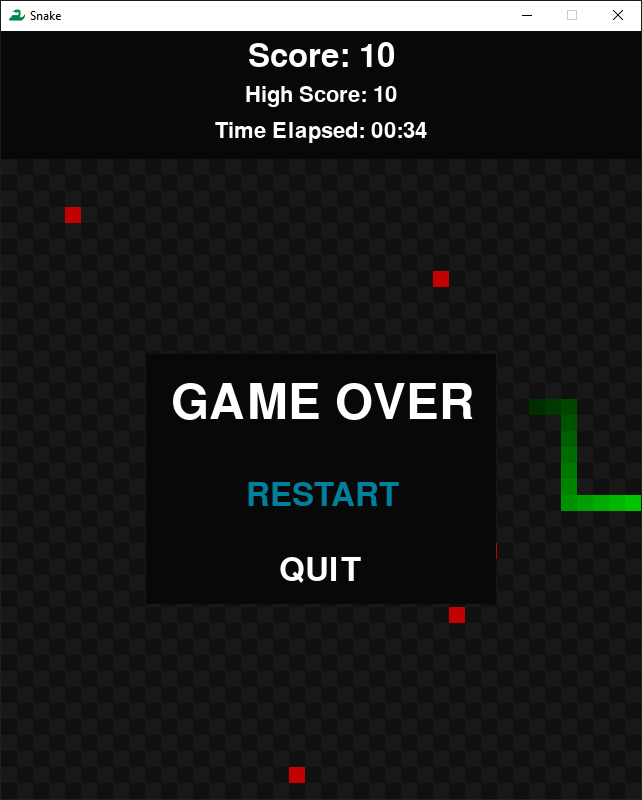
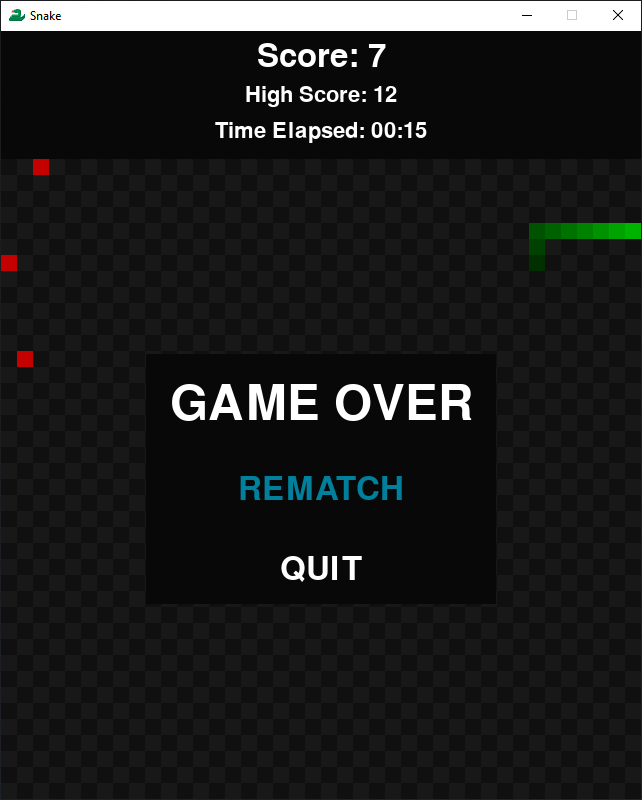
snake updates

diff --git a/snake/main.py b/snake/main.py
@@ -9,17 +9,16 @@ import pygame
 def createBlankWindow():
     blankWindow = pygame.Surface((windowWidth, windowHeight))
     blankWindow.fill(windowBgDark)
-    startForX = squareSize
 
+    drawLightRect = False
     for y in range(infoHeight, windowHeight, squareSize):
-        if (y-infoHeight) % (squareSize * 2):
-            startForX = squareSize
-        else:
-            startForX = 0
-        for x in range(startForX, windowWidth, squareSize*2):
-            pygame.draw.rect(blankWindow, windowBgLight, (x, y, squareSize, squareSize))
+        for x in range(0, windowWidth, squareSize):
+            if drawLightRect:
+                pygame.draw.rect(blankWindow, windowBgLight, (x, y, squareSize, squareSize))
+            drawLightRect = not drawLightRect
+        drawLightRect = not drawLightRect
 
-    pygame.draw.rect(blankWindow, infoBg, (0, 0, windowWidth, infoHeight))
+    pygame.draw.rect(blankWindow, menuWindowBg, (0, 0, windowWidth, infoHeight))
 
     return blankWindow
 
@@ -34,7 +33,7 @@ def createMenus(txt, txtPosX, txtPosYTitle, txtPosYBody, txtPosYBodyDifference, 
 
     for i in range(selectionStart, selectionEnd+1):
         temp = pygame.Surface((windowWidth, windowHeight))
-        temp.fill(windowBgDark)
+        temp.fill(menuWindowBg)
         for j in range(len(txt)):
             if j == i:
                 if j == 0:
@@ -54,18 +53,20 @@ def createMenus(txt, txtPosX, txtPosYTitle, txtPosYBody, txtPosYBodyDifference, 
 def createInfoMenu():
     fontOne = pygame.font.SysFont(mainFont, 72)
     fontTwo = pygame.font.SysFont(mainFont, 32)
+    fontThree = pygame.font.SysFont(mainFont, 48)
 
     lineOne = "INFORMATION"
     lineTwo = "WASD = SNAKE AND MENU NAVIGATION"
     lineThree = "K = SPEED UP SNAKE"
     lineFour = "ESC = PAUSE/UNPAUSE/GO BACK"
-    lineFive = "R = RESTART WHEN GAMER OVER"
-    lineSix = "Q = QUIT TO MAIN MENU WHEN GAME OVER"
-    lineSeven = "CTRL + Q = QUIT PROGRAM"
-    lineEight = "BACK TO MAIN MENU"
+    lineFive = "H = HIDE GAME OVER MESSAGE"
+    lineSix = "R = RESTART WHEN GAMER OVER"
+    lineSeven = "Q = QUIT TO MAIN MENU"
+    lineEight = "CTRL + Q = QUIT PROGRAM"
+    lineNine = "BACK TO MAIN MENU"
 
     infoMenu = pygame.Surface((windowWidth, windowHeight))
-    infoMenu.fill(windowBgDark)
+    infoMenu.fill(menuWindowBg)
     infoMenu.blit(fontOne.render(lineOne, True, textColour), (50, 50))
     infoMenu.blit(fontTwo.render(lineTwo, True, textColour), (50, 150))
     infoMenu.blit(fontTwo.render(lineThree, True, textColour), (50, 200))
@@ -73,30 +74,30 @@ def createInfoMenu():
     infoMenu.blit(fontTwo.render(lineFive, True, textColour), (50, 300))
     infoMenu.blit(fontTwo.render(lineSix, True, textColour), (50, 350))
     infoMenu.blit(fontTwo.render(lineSeven, True, textColour), (50, 400))
-    infoMenu.blit(fontTwo.render(lineEight, True, selectedTextColour), (50, 650))
+    infoMenu.blit(fontTwo.render(lineEight, True, textColour), (50, 450))
+    infoMenu.blit(fontThree.render(lineNine, True, selectedTextColour), (50, 700))
 
     return infoMenu
 
 
 def createGameOverMenu():
-    fontOne = pygame.font.SysFont(mainFont, 72)
-    fontTwo = pygame.font.SysFont(mainFont, 48)
+    gameOverText = pygame.font.SysFont(mainFont, gameOverFontSize).render("GAME OVER", True, textColour)
+    rematchTextSelected = pygame.font.SysFont(mainFont, gameOverOptionsFontSize).render("REMATCH", True, selectedTextColour)
+    rematchText = pygame.font.SysFont(mainFont, gameOverOptionsFontSize).render("REMATCH", True, textColour)
+    quitTextSelected = pygame.font.SysFont(mainFont, gameOverOptionsFontSize).render("QUIT", True, selectedTextColour)
+    quitText = pygame.font.SysFont(mainFont, gameOverOptionsFontSize).render("QUIT", True, textColour)
 
-    lineOne = "GAME OVER"
-    lineTwo = "RESTART"
-    lineThree = "QUIT"
+    one = pygame.Surface((gameOverWidth, gameOverHeight))
+    one.fill(menuWindowBg)
+    one.blit(gameOverText, gameOverText.get_rect(center=(gameOverWidth/2, 50)))
+    one.blit(rematchTextSelected, rematchTextSelected.get_rect(center=(gameOverWidth/2, gameOverHeight-115)))
+    one.blit(quitText, quitText.get_rect(center=(gameOverWidth/2, gameOverHeight-35)))
 
-    one = pygame.Surface((350, 250))
-    one.fill(infoBg)
-    one.blit(fontOne.render(lineOne, True, textColour), (25, 25))
-    one.blit(fontTwo.render(lineTwo, True, selectedTextColour), (100, 125))
-    one.blit(fontTwo.render(lineThree, True, textColour), (133, 200))
-
-    two = pygame.Surface((350, 250))
-    two.fill(infoBg)
-    two.blit(fontOne.render(lineOne, True, textColour), (25, 25))
-    two.blit(fontTwo.render(lineTwo, True, textColour), (100, 125))
-    two.blit(fontTwo.render(lineThree, True, selectedTextColour), (133, 200))
+    two = pygame.Surface((gameOverWidth, gameOverHeight))
+    two.fill(menuWindowBg)
+    two.blit(gameOverText, gameOverText.get_rect(center=(gameOverWidth/2, 50)))
+    two.blit(rematchText, rematchText.get_rect(center=(gameOverWidth/2, gameOverHeight-115)))
+    two.blit(quitTextSelected, quitTextSelected.get_rect(center=(gameOverWidth/2, gameOverHeight-35)))
 
     return [one, two]
 
@@ -218,15 +219,13 @@ def displaySnakeSpeedOptionsMenu():
                 elif event.key == pygame.K_RETURN:
                     if currentSelection == 0:
                         gameSpeed = 5
-                        return
                     elif currentSelection == 1:
                         gameSpeed = 10
-                        return
                     elif currentSelection == 2:
                         gameSpeed = 15
-                        return
                     elif currentSelection == 3:
-                        return
+                        pass
+                    return
                 elif event.key == pygame.K_ESCAPE:
                     return
 
@@ -265,15 +264,13 @@ def displayAppleAmountOptionsMenu():
                 elif event.key == pygame.K_RETURN:
                     if currentSelection == 0:
                         numberOfApples = 1
-                        return
                     elif currentSelection == 1:
                         numberOfApples = 3
-                        return
                     elif currentSelection == 2:
                         numberOfApples = 5
-                        return
                     elif currentSelection == 3:
-                        return
+                        pass
+                    return
                 elif event.key == pygame.K_ESCAPE:
                     return
 
@@ -284,6 +281,7 @@ def displayAppleAmountOptionsMenu():
 
 def displayInfoMenu():
     window.blit(infoMenu, (0, 0))
+    pygame.display.update()
     while True:
         for event in pygame.event.get():
             if event.type == pygame.QUIT:
@@ -295,8 +293,6 @@ def displayInfoMenu():
                     sys.exit()
                 elif event.key == pygame.K_RETURN or event.key == pygame.K_ESCAPE:
                     return
-
-        pygame.display.update()
 
 
 def displayGameOverMenu():
@@ -330,9 +326,11 @@ def displayGameOverMenu():
                     elif currentSelection == 1:
                         return True
 
-        window.blit(gameOverMenu[currentSelection], (145, 323))
-
-        pygame.display.update()
+        if not pygame.key.get_pressed()[pygame.K_h]:
+            window.blit(gameOverMenu[currentSelection], (windowSize/2-gameOverWidth/2, windowSize/2-gameOverHeight/2+infoHeight))
+            pygame.display.update()
+        else:
+            displaySnake()
 
 
 def gameOver():
@@ -358,6 +356,8 @@ def gameIsPaused():
     for i in range(0, len(pointsX)):
         pygame.draw.rect(window, (colourMax-colourStep*i, colourMax-colourStep*i, colourMax-colourStep*i), (pointsX[i], pointsY[i], squareSize, squareSize))
 
+    pygame.display.update()
+
     while True:
         for event in pygame.event.get():
             if event.type == pygame.QUIT:
@@ -370,8 +370,6 @@ def gameIsPaused():
                 elif event.key == pygame.K_ESCAPE:
                     startTime = time.time()
                     return
-
-        pygame.display.update()
 
 
 def displaySnake():
@@ -395,6 +393,8 @@ def displaySnake():
 
     for i in range(len(pointsX)):
         pygame.draw.rect(window, (0, colourMax-colourStep*i, 0), (pointsX[i], pointsY[i], squareSize, squareSize))
+
+    pygame.display.update()
 
 
 def updateSnakePosition():
@@ -421,6 +421,8 @@ def updateSnakePosition():
         pointsY.insert(0, pointsY[0])
         pointsX.pop()
         pointsY.pop()
+
+    checkForApple()
 
 
 def checkForApple():
@@ -451,22 +453,26 @@ def createNewApplePositions():
 
 
 if __name__ == "__main__":
-    highScore = 0
-    squareSize = 32
-    gameSpeed = 10
-    numberOfApples = 3
-
     windowSize = 640
     infoHeight = 128
-
     windowWidth = windowSize
     windowHeight = windowSize + infoHeight
     windowMidX = int(windowWidth / 2)
     windowMidY = int((windowHeight - infoHeight) / 2) + infoHeight
 
-    infoBg = (8, 8, 8)
+    pygame.init()
+    pygame.display.set_caption("Snake")
+    pygame.display.set_icon(pygame.image.load("snake\\resources\\app.ico"))
+    window = pygame.display.set_mode((windowWidth, windowHeight))
+    clock = pygame.time.Clock()
+
+    squareSize = 32
+    gameSpeed = 10
+    numberOfApples = 3
+
     windowBgDark = (16, 16, 16)
     windowBgLight = (24, 24, 24)
+    menuWindowBg = (8, 8, 8)
 
     colourMin = 32
     colourMax = 196
@@ -475,23 +481,23 @@ if __name__ == "__main__":
     textColour = (255, 255, 255)
     selectedTextColour = (0, 128, 156)
 
-    pygame.init()
-    pygame.display.set_caption("Snake")
-    pygame.display.set_icon(pygame.image.load("snake\\resources\\app.ico"))
-    window = pygame.display.set_mode((windowWidth, windowHeight))
-    clock = pygame.time.Clock()
+    gameOverWidth = 350
+    gameOverHeight = 250
+    gameOverFontSize = 72
+    gameOverOptionsFontSize = 48
+
+    highScore = 0
 
     blankWindow = createBlankWindow()
-    mainMenus = createMenus(["PLAY", "MAP SIZE", "SNAKE SPEED", "NUMBER OF APPLES", "INFO", "QUIT"], 50, 50, 200, 100, 128, 48, 0, 5)
-    mapSizeMenus = createMenus(["MAP SIZES", "10 x 10", "20 x 20", "30 x 30", "BACK TO MAIN MENU"], 50, 50, 150, 100, 72, 48, 1, 4)
-    snakeSpeedMenus = createMenus(["SNAKE SPEED", "5", "10", "15", "BACK TO MAIN MENU"], 50, 50, 150, 100, 72, 48, 1, 4)
-    appleAmountMenus = createMenus(["NUMBER OF APPLES", "1", "3", "5", "BACK TO MAIN MENU"], 50, 50, 150, 100, 72, 48, 1, 4)
+    mainMenus = createMenus(["PLAY SNAKE", "MAP SIZE", "SNAKE SPEED", "NUMBER OF APPLES", "INFO", "QUIT"], 50, 50, 200, 100, 110, 48, 0, 5)
+    mapSizeMenus = createMenus(["MAP SIZES", "10 x 10", "20 x 20", "40 x 40", "BACK TO MAIN MENU"], 50, 50, 300, 100, 72, 48, 1, 4)
+    snakeSpeedMenus = createMenus(["SNAKE SPEED", "5", "10", "15", "BACK TO MAIN MENU"], 50, 50, 300, 100, 72, 48, 1, 4)
+    appleAmountMenus = createMenus(["NUMBER OF APPLES", "1", "3", "5", "BACK TO MAIN MENU"], 50, 50, 300, 100, 72, 48, 1, 4)
     infoMenu = createInfoMenu()
     gameOverMenu = createGameOverMenu()
 
     goToMainMenu = True
-    programIsRunning = True
-    while programIsRunning:
+    while True:
         if goToMainMenu:
             displayMainMenu()
 
@@ -503,15 +509,13 @@ if __name__ == "__main__":
         elapsedTime = 0.0
         startTime = time.time()
 
-        while not gameOver():
-            displaySnake()
-
+        goImmediatelyToMainMenu = False
+        while not gameOver() and not goImmediatelyToMainMenu:
             if pygame.key.get_pressed()[pygame.K_k]:
                 clock.tick(gameSpeed * 2)
             else:
                 clock.tick(gameSpeed)
 
-            inputReceived = False
             for event in pygame.event.get():
                 if event.type == pygame.QUIT:
                     pygame.display.quit()
@@ -520,24 +524,23 @@ if __name__ == "__main__":
                     if event.key == pygame.K_q and pygame.key.get_mods() & pygame.KMOD_CTRL:
                         pygame.display.quit()
                         sys.exit()
+                    elif event.key == pygame.K_q:
+                        goImmediatelyToMainMenu = True
+                        goToMainMenu = True
                     elif event.key == pygame.K_ESCAPE:
                         gameIsPaused()
-                    elif (event.key == pygame.K_UP or event.key == pygame.K_w) and snakeDirection != "DOWN" and not inputReceived:
+                    elif (event.key == pygame.K_UP or event.key == pygame.K_w) and snakeDirection != "DOWN":
                         snakeDirection = "UP"
-                        inputReceived = True
-                    elif (event.key == pygame.K_DOWN or event.key == pygame.K_s) and snakeDirection != "UP" and not inputReceived:
+                    elif (event.key == pygame.K_DOWN or event.key == pygame.K_s) and snakeDirection != "UP":
                         snakeDirection = "DOWN"
-                        inputReceived = True
-                    elif (event.key == pygame.K_LEFT or event.key == pygame.K_a) and snakeDirection != "RIGHT" and not inputReceived:
+                    elif (event.key == pygame.K_LEFT or event.key == pygame.K_a) and snakeDirection != "RIGHT":
                         snakeDirection = "LEFT"
-                        inputReceived = True
-                    elif (event.key == pygame.K_RIGHT or event.key == pygame.K_d) and snakeDirection != "LEFT" and not inputReceived:
+                    elif (event.key == pygame.K_RIGHT or event.key == pygame.K_d) and snakeDirection != "LEFT":
                         snakeDirection = "RIGHT"
-                        inputReceived = True
 
             updateSnakePosition()
-            checkForApple()
 
-            pygame.display.update()
+            displaySnake()
 
-        goToMainMenu = displayGameOverMenu()
+        if not goImmediatelyToMainMenu:
+            goToMainMenu = displayGameOverMenu()
